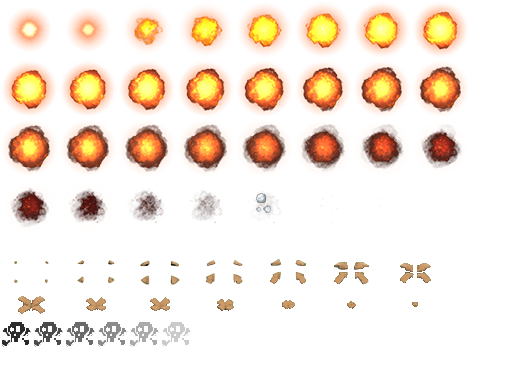
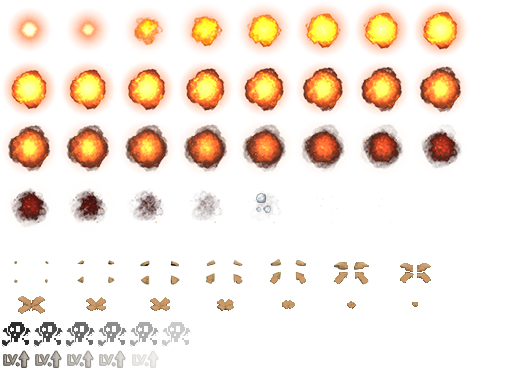
ART: LevelUp and Death Particles

Changed region(s): [[0.0, 0.9488, 0.3125, 1.0]]

diff --git a/Mythology_Parade_Engine/Core/j1ParticleManager.cpp b/Mythology_Parade_Engine/Core/j1ParticleManager.cpp
@@ -15,7 +15,6 @@ j1ParticleManager::~j1ParticleManager()
 }
 
 
-
 bool j1ParticleManager::Start()
 {
 	LOG("j1ParticleManager Started");
@@ -24,12 +23,10 @@ bool j1ParticleManager::Start()
 	CreateExplosionAnimation();
 	CreateArrowsCursorAnimation();
 	CreateSkullAnimation();
-
+	CreateLevelUpAnimation();
 
 	return true;
 }
-
-
 
 bool j1ParticleManager::Update(float dt)
 {
@@ -87,6 +84,9 @@ void j1ParticleManager::UpdateParticleAnimation(ParticleAnimation animation)
 	case ParticleAnimation::Skull:
 		current_animation = skull_animation;
 		break;
+	case ParticleAnimation::Level_Up:
+		current_animation = levelup_animation;
+		break;
 	}
 }
 
@@ -135,4 +135,16 @@ void j1ParticleManager::CreateSkullAnimation()
 	skull_animation.PushBack(SDL_Rect{ 160, 320, 32, 29 }, 1, 0, 0);
 	skull_animation.speed = 20.f;
 	skull_animation.loop = false;
+}
+
+void j1ParticleManager::CreateLevelUpAnimation()
+{
+	levelup_animation.PushBack(SDL_Rect{ 0, 349, 32, 22 }, 1, 0, 0);
+	levelup_animation.PushBack(SDL_Rect{ 32, 349, 32, 22 }, 1, 0, 0);
+	levelup_animation.PushBack(SDL_Rect{ 64, 349, 32, 22 }, 1, 0, 0);
+	levelup_animation.PushBack(SDL_Rect{ 96, 349, 32, 22 }, 1, 0, 0);
+	levelup_animation.PushBack(SDL_Rect{ 128, 349, 32, 22 }, 1, 0, 0);
+	levelup_animation.PushBack(SDL_Rect{ 160, 349, 32, 22 }, 1, 0, 0);
+	levelup_animation.speed = 20.f;
+	levelup_animation.loop = false;
 }

diff --git a/Mythology_Parade_Engine/Core/j1ParticleManager.h b/Mythology_Parade_Engine/Core/j1ParticleManager.h
@@ -10,7 +10,8 @@
 enum class ParticleAnimation {
 	Explosion,
 	Arrows_Cursor,
-	Skull
+	Skull,
+	Level_Up
 };
 
 class j1ParticleManager : public j1Module
@@ -24,6 +25,7 @@ public:
 	void UpdateParticleAnimation(ParticleAnimation animation);
 
 	bool Start() override;
+	void CreateLevelUpAnimation();
 	void CreateSkullAnimation();
 	void CreateArrowsCursorAnimation();
 	bool Update(float dt) override;
@@ -37,6 +39,7 @@ private:
 	ClassicAnimation explosion_animation;
 	ClassicAnimation arrows_animation;
 	ClassicAnimation skull_animation;
+	ClassicAnimation levelup_animation;
 
 	ClassicAnimation current_animation;
 

diff --git a/Mythology_Parade_Engine/Core/Unit.cpp b/Mythology_Parade_Engine/Core/Unit.cpp
@@ -282,8 +282,7 @@ void Unit::SetPath(const std::vector<iPoint> s_path)
 void Unit::Kill(iPoint direction)
 {
 	ChangeState(direction, AnimationType::DIE);
-	direction = App->render->ScreenToWorld(direction.x, direction.y);
-	App->particleManager->CreateParticle({ direction.x,direction.y }, { 0,-1 }, 10, ParticleAnimation::Skull);
+	App->particleManager->CreateParticle({ (int)position.x-20,(int)position.y-50 }, { 0,-1 }, 10, ParticleAnimation::Skull);
 }
 void Unit::StateMachineActions(float dt)
 {

diff --git a/Mythology_Parade_Engine/Core/CombatUnit.cpp b/Mythology_Parade_Engine/Core/CombatUnit.cpp
@@ -1,4 +1,5 @@
 #include "CombatUnit.h"
+#include "j1ParticleManager.h"
 #include "p2Log.h"
 
 CombatUnit::CombatUnit(UnitType type, iPoint pos) : Unit(type, pos), range(0), damage(0)
@@ -82,6 +83,7 @@ void CombatUnit::LevelUp()
 		break;
 
 	}
+	App->particleManager->CreateParticle({ (int)position.x-20,(int)position.y-50 }, { 0,-1 }, 10, ParticleAnimation::Level_Up);
 }
 
 void CombatUnit::Init(int maxHealth, int damage, int range, int speed)

diff --git a/Mythology_Parade_Engine/Core/j1Scene.cpp b/Mythology_Parade_Engine/Core/j1Scene.cpp
@@ -180,7 +180,6 @@ void j1Scene::ClickToPath()
 		LOG("Ending: %i, %i", ending.x, ending.y);
 
 		iPoint PointToArrow = App->map->MapToWorld(ending.x, ending.y);
-		//PointToArrow = App->render->WorldToScreen(PointToArrow.x, PointToArrow.y);
 		App->particleManager->CreateParticle({ PointToArrow.x,PointToArrow.y}, { 0,0 }, 10, ParticleAnimation::Arrows_Cursor);
 
 		int posX, posY;
